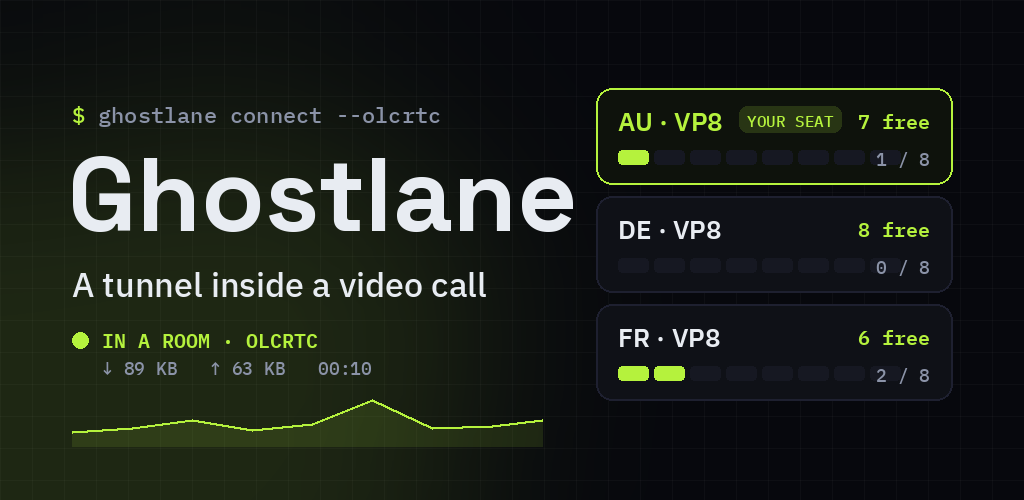
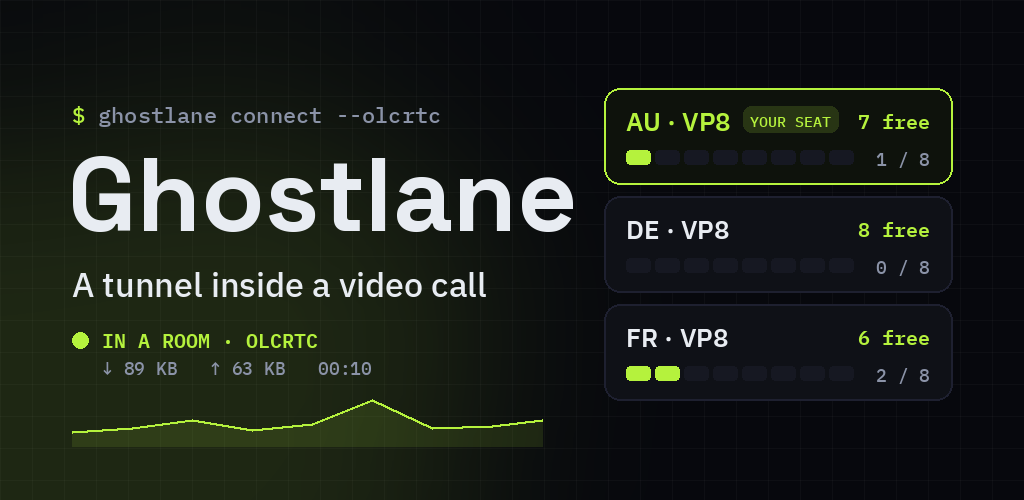
docs(store): the Play graphic without overlaps; the privacy policy names every address the app contacts
- Feature graphic (scripts/play-assets.py -> docs/play/feature-graphic.png):
  - the seat blocks stop short of the "1 / 8" count, which sat on the eighth
    block;
  - the room cards start 27 px clear of the wordmark, not 19;
  - the "YOUR SEAT" chip is a size smaller, so it no longer touches "7 free".
  The owner uploads it in the console by hand.
- docs/privacy.md listed three connections and said nothing else. It now also
  names:
  - the tunnel check (Cloudflare trace through the tunnel);
  - smart connect's checks (gstatic 204 and a 64 KB speed.cloudflare.com
    download through each candidate; gstatic and ya.ru directly);
  - the room-occupancy request to proofkit.org, which sends a one-way key id,
    never the key;
  - the Android and desktop room check (google.com 204 through the room).
  Effective 2026-09-25.
- The Play and App Store descriptions said the app talks to "exactly two kinds
  of address". They now say which small checks it makes and point to the
  policy. Play full description 2714 characters.

Claude-Session: https://claude.ai/code/session_014fsVGuVZtGDdvtLnKdux8a

Changed region(s): [[0.5625, 0.18, 0.8125, 0.36], [0.5625, 0.42, 0.7188, 0.57], [0.5625, 0.63, 0.7188, 0.78]]

diff --git a/scripts/play-assets.py b/scripts/play-assets.py
@@ -59,8 +59,9 @@ pts = [(x0, 432), (x0 + 60, 428), (x0 + 120, 420), (x0 + 180, 430), (x0 + 240, 4
 d.polygon(pts + [(pts[-1][0], 446), (x0, 446)], fill=LIME + (28,))
 d.line(pts, fill=LIME, width=3, joint='curve')
 
-# rooms panel on the right: three cards, the first one is the user's seat
-px, py, pw, ch, gap = 596, 88, 356, 96, 12
+# rooms panel on the right: three cards, the first one is the user's seat. It ends
+# at the 72 px margin and starts clear of the wordmark (which ends near x=577).
+px, py, pw, ch, gap = 604, 88, 348, 96, 12
 rooms = [('AU · VP8', 1, True), ('DE · VP8', 0, False), ('FR · VP8', 2, False)]
 for i, (name, taken, mine) in enumerate(rooms):
     y = py + i * (ch + gap)
@@ -74,20 +75,22 @@ for i, (name, taken, mine) in enumerate(rooms):
     d.text((px + pw - 22 - lw, y + 20), label, font=pm_sb, fill=LIME)
     if mine:
         seat = 'YOUR SEAT'
-        pm_xs = ImageFont.truetype(F + 'ibm_plex_mono_medium.ttf', 16)
+        pm_xs = ImageFont.truetype(F + 'ibm_plex_mono_medium.ttf', 15)
         sw = d.textlength(seat, font=pm_xs)
-        sx = px + 22 + d.textlength(name, font=ps_sb) + 16
-        d.rounded_rectangle([sx, y + 18, sx + sw + 16, y + 44], radius=8, fill=LIME + (40,))
-        d.text((sx + 8, y + 22), seat, font=pm_xs, fill=LIME)
-    # slots
-    sy = y + 62
-    for s in range(8):
-        sx = px + 22 + s * 36
-        d.rounded_rectangle([sx, sy, sx + 30, sy + 14], radius=4,
-                            fill=LIME if s < taken else SURF2)
+        sx = px + 22 + d.textlength(name, font=ps_sb) + 12
+        d.rounded_rectangle([sx, y + 18, sx + sw + 14, y + 44], radius=8, fill=LIME + (40,))
+        d.text((sx + 7, y + 23), seat, font=pm_xs, fill=LIME)
+    # slots, then the count to their right; the slots stop short of the count
     cnt = f'{taken} / 8'
     cw = d.textlength(cnt, font=pm_s)
-    d.text((px + pw - 22 - cw, sy - 3), cnt, font=pm_s, fill=DIM)
+    cx = px + pw - 22 - cw
+    sy = y + 62
+    pitch = (cx - 14 - (px + 22)) // 8
+    for s in range(8):
+        sx = px + 22 + s * pitch
+        d.rounded_rectangle([sx, sy, sx + pitch - 5, sy + 14], radius=4,
+                            fill=LIME if s < taken else SURF2)
+    d.text((cx, sy - 3), cnt, font=pm_s, fill=DIM)
 
 img.save(OUT + '/feature-graphic.png', optimize=True)
 

diff --git a/docs/privacy.md b/docs/privacy.md
@@ -1,6 +1,6 @@
 # Ghostlane privacy policy
 
-Effective 2026-09-16. Applies to the Ghostlane app on iOS, Android, macOS, Windows
+Effective 2026-09-25. Applies to the Ghostlane app on iOS, Android, macOS, Windows
 and Linux, published from this repository.
 
 ## What the app collects
@@ -25,15 +25,30 @@ None of this leaves the device unless you export and send it yourself.
 - **The server-list URL you added**, to download and refresh that list.
 - **The VPN servers in that list**, to carry your traffic. What those servers do
   with it is governed by whoever operates them, not by this app.
+- **A check that the tunnel works**, when a connection starts: one small HTTPS
+  request to `1.1.1.1/cdn-cgi/trace` (or `cloudflare.com/cdn-cgi/trace`) through
+  the tunnel. Its answer is the exit's address and country, which the app shows.
 - **A latency check** while connected: one small HTTPS request to
   `www.gstatic.com/generate_204` through the tunnel every 30 seconds while the
   home screen is in the foreground, so the app can show the channel's response
-  time. It carries no identifier.
+  time.
+- **Smart connect**, on Android and computers, before connecting to a server
+  published over more than one kind of connection (on by default; off in the
+  server-list settings). Through each kind it tries: one request to
+  `www.gstatic.com/generate_204` and a 64 KB download from `speed.cloudflare.com`.
+  Outside any tunnel: one request each to `www.gstatic.com/generate_204` and
+  `ya.ru`, to recognise a network that lets only domestic sites through.
+- **Room checks** for olcRTC rooms. The app asks `proofkit.org` how full each
+  room is, naming the room by a one-way handle derived from its key (the first
+  16 hex digits of its SHA-256), never the key itself. When the app measures a
+  room on Android or a computer, it sends one request to
+  `www.google.com/generate_204` through that room.
 - **A partner link resolver**, only when you open a partner link that has to be
-  turned into a server-list URL. That request carries the link and nothing about
-  you.
+  turned into a server-list URL. That request carries the link.
 - **GitHub**, to check for updates on the desktop and Android builds. The
-  request fetches the release list and sends no identifier.
+  request fetches the release list.
+
+None of these requests carries anything that identifies you or your device.
 
 The app never opens, mentions or links to any website of its own, and it has no
 purchase of any kind.

diff --git a/docs/play-listing.md b/docs/play-listing.md
@@ -145,7 +145,7 @@ A tunnel inside a video call. olcRTC, Reality, Hysteria2 and XHTTP in one app.
 > does not), so the protocol names belong here rather than in a keyword field
 > Play does not have.
 
-**Full description** (4000 max) — [2640]
+**Full description** (4000 max) — [2714]
 
 ```
 Ghostlane carries your traffic inside a video call.
@@ -202,10 +202,10 @@ Nothing is collected. No account, no analytics, no advertising identifier, no
 crash reporting service. Your server lists and the app's own log stay on the
 device and are never sent anywhere.
 
-The app talks to exactly two kinds of address: the server-list URL you added,
-and the VPN servers in it. The one exception is a partner link that has to be
-resolved into a server-list URL, and that request carries the link and nothing
-about you.
+Besides the server lists you add and the servers in them, the app makes a few
+small checks that carry nothing about you: whether the tunnel works and how fast
+it answers, which kind of connection gets through when a server offers several,
+and how full each olcRTC room is. The privacy policy names every address.
 
 REQUIREMENTS
 

diff --git a/docs/app-store-listing.md b/docs/app-store-listing.md
@@ -112,10 +112,10 @@ Nothing is collected. No account, no analytics, no advertising identifier, no
 crash reporting service. Your server lists and the app's own log stay on the
 device and are never sent anywhere.
 
-The app talks to exactly two kinds of address: the server-list URL you added,
-and the VPN servers in it. The one exception is a partner link that has to be
-resolved into a server-list URL, and that request carries the link and nothing
-about you.
+Besides the server lists you add and the servers in them, the app makes a few
+small checks that carry nothing about you: whether the tunnel works and how fast
+it answers, and how full each olcRTC room is. The privacy policy names every
+address.
 
 REQUIREMENTS
 
